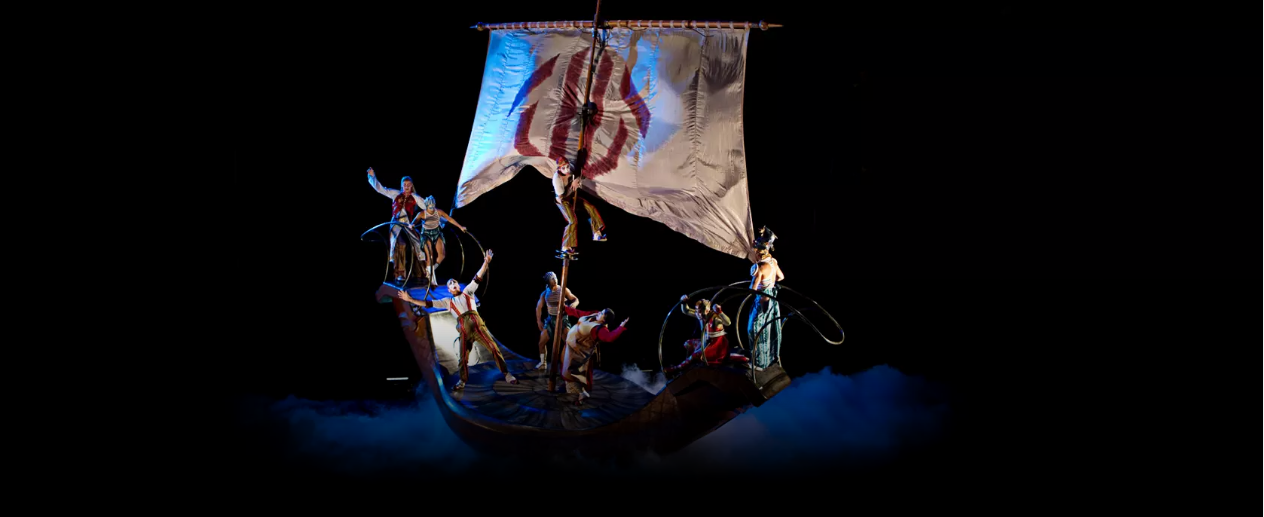
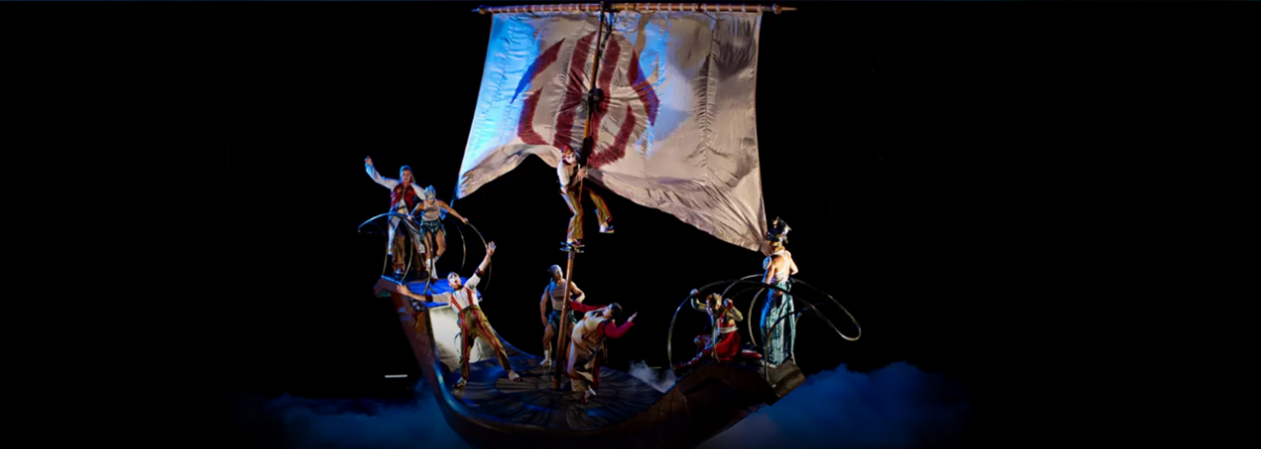
Finalizando 4.0

Changed region(s): [[0.2165, 0.0, 0.7732, 1.0]]

diff --git a/assets/css/estilos.css b/assets/css/estilos.css
@@ -1,18 +1,16 @@
 
 * {
   margin: 0;
-  padding: 0.1%;
+  padding: 0;
   box-sizing: border-box;
   font-family: sans-serif;
  }
 
-body{
-	background-color: black;
-}
+
  header {
  	 width: 100%;
  	 background: #393939;
- 	 margin-bottom: 10px;
+ 	 margin-bottom: auto;
 
  }
 
@@ -48,7 +46,7 @@ body{
  }
 
  .menu li:hover {
- 	background: rgba(255,255,255,0.1);
+ 	background: rgba(255,255,255,0.5);
 
  }
 
@@ -58,6 +56,9 @@ body{
 	padding: 13px 17px;
 	color: #fff;
 	text-decoration: none;
+}
+#row {
+	padding: 0.5%;
 }
 
 .menu a span {

diff --git a/assets/css/divs-espectaculos.css b/assets/css/divs-espectaculos.css
@@ -27,9 +27,7 @@ body {
 
  #esp-wrapper   {
     grid-auto-columns: 1fr 3fr;
-    margin-left: 20px;
  	padding: auto;
- 	margin-top: 50px;
     background-color: #fff;	
 }
 
@@ -41,7 +39,6 @@ body {
  }
   #row{
     text-align: center;
-    margin-top: 50px;
 	display: grid;
 	grid-template-columns: repeat(4, 1fr);
     grid-template-rows: 1fr;

diff --git a/assets/css/slides.css b/assets/css/slides.css
@@ -10,7 +10,7 @@ p {
 /* Slideshow container */
 .slideshow-container {
   max-width: 1600px;
-  max-height: 600px;
+  max-height: 495px;
   position: relative;
   margin: auto;
 }
@@ -19,7 +19,7 @@ p {
 .prev, .next {
   cursor: pointer;
   position: absolute;
-  top: 50%;
+  top: 30%;
   width: auto;
   padding: 16px;
   margin-top: -22px;

diff --git a/view/admin/adm/login.html b/view/admin/adm/login.html
@@ -7,6 +7,7 @@
 <body>
 	<h1 align="center">Para acceder al panel administrativo debe identificarse.</h1>
 	<form  method="POST" action ="?c=admin&a=captcha">
+		<input type="hidden" name="id">
 		Usuario:<input type="text" name="email"/>
 		<br/>
 		Contraseña:<input type="password" name="pass"/>

diff --git a/view/user/esp/esp-all.php b/view/user/esp/esp-all.php
@@ -1,19 +1,26 @@
-          <div class="mySlides fade">
-  <img  src = "../../assets/image/banner/banner.png" style="width: 100%"/>
-</div><br>
+  <div class="slideshow-container">
+  <?php foreach($this->model->listAll() as $item): ?>
+  <div class="mySlides fade">
+  <img <?php echo "src = '../../assets/image/banner/".$item['banner']."'";?> style="width: 100%"/>
+  <h1 class="text"><?php echo $item['artista']; ?>
+  </h1>
+</div>
+<?php endforeach; ?>
+<a class="prev" onclick="plusSlides(-1)">&#10094;</a>
+<a class="next" onclick="plusSlides(1)">&#10095;</a>
+</div>
 
 <input type="checkbox" id="btn-menu">
             <label for="btn-menu" class="icon-menu">
             </label>
             
                 <div  class="menu">  
-                <ul>
+                <ul style="background-color: #8E8E8E">
+                    <li ><a href="?c=esp&a=Index">En gira</a>
                     </li>
-                    <li ><a href="?c=esp&a=Index"></a>
-                    </li>
-                    <li ><a href="?c=esp&a=Index">Todos losspectaculos</a>
-                    </li>
-                    <li ><a href="?c=ciu&a=Index">Ciudades</a>
+                    <?php foreach($this->ciudad->listAll() as $ciu): ?>
+                    <li ><a href="?c=ciu&a=Index"><?php echo $ciu['nombre'] ?></a>
+                    <?php endforeach; ?>
                     </li>
                 </ul>
                 </div>
@@ -23,7 +30,7 @@
       	<?php foreach($this->model->listAll() as $item): ?>
         	<div id="esp-wrapper">
           <img class="tooltip"id="esp-img" <?php echo "src = '../../assets/image/".$item['img']."'";?>/> 
-        	<h3><?php echo $item['nombre'].":";?></h3>
+        	<h3><?php echo $item['nombre'];?></h3>
         	<p><?php echo substr($item['artista'], 0,20)."...";?></p>
           <button class="cienx"><strong><a <?php echo "href='?c=esp&a=One&id= ".$item['id']."'";?>>Ver más</a></strong>
           </button></div>

diff --git a/model/Admin.class.php b/model/Admin.class.php
@@ -35,55 +35,12 @@
        $sql = $conexion->prepare('SELECT * FROM ' . self::TABLA . ' WHERE email = :email and pass = :pass');
      $sql->bindParam(':email', $user);
      $sql->bindParam(':pass', $pass);
-       $sql->execute();
-       return $sql;
-   }
-
-   /*public function save($nombre, $id){
-   		$conexion = new Conexion();
-
-   		if($id) { //Modifica toda una linea, mediante el id.
-
-         $sql = $conexion->prepare('UPDATE ' . self::TABLA .' SET nombre = :nombre WHERE id = :id');
-         $sql->bindParam(':nombre', $nombre, PDO::PARAM_STR);
-		 $sql->bindParam(':id', $id);
-		 $sql->execute();
-		}else {  
-         $sql = $conexion->prepare('INSERT INTO ' . self::TABLA .' (nombre) VALUES (:nombre');
-		     $sql->bindParam(':nombre', $nombre, PDO::PARAM_STR);
-		     $id = $conexion->lastInsertId();
-         $sql->execute();
-      }
-      return $sql;
-   }
-
-    public static function listOne($id){//Retorna nombre, descri.. por el id.
-    
-       $conexion = new Conexion();
-       $sql = $conexion->prepare('SELECT nombre FROM ' . self::TABLA . ' WHERE id = :id');
-	   $sql->bindParam(':id', $id);
-       $sql->execute();
-       $reg = $sql->fetch(); //Devuelve una única linea (array con cada campo) de la TABLA(id seleccionado).
-       return $reg;
+     $sql->execute();
        
-    }
+       return $sql;
+       var_dump($sql);die;
+   }
 
-    public static function listAll(){
-       $conexion = new Conexion();
-       $sql = $conexion->prepare ('SELECT id, nombre FROM ' . self::TABLA . ' ORDER BY nombre');
-	   $sql->execute();
-       $reg = $sql->fetchAll();
-       return $reg;
-    }
-		public static function delete($id){
-      		$conexion = new Conexion();
-      		$sql = $conexion->prepare('DELETE FROM'. self::TABLA .' WHERE id = :id');
-      		$sql->bindValue(':id', $id);
-      		$sql->execute();
-      		return $sql;    
-}
-
-*/
    }
 
 

diff --git a/view/user/header.php b/view/user/header.php
@@ -22,13 +22,13 @@
             </label>
             
                 <nav  class="menu">  
-                <ul>
+                <ul style="background-color: black">
                     </li>
-                    <li ><a href="?c=esp&a=Index">Sistemacirco</a>
+                    <li ><a href="?c=esp&a=Index">SISTEMACIRCO</a>
                     </li>
-                    <li ><a href="?c=esp&a=Index">Espectaculos</a>
+                    <li ><a href="?c=esp&a=Index">ESPECTACULOS</a>
                     </li>
-                    <li ><a href="?c=ciu&a=Index">Ciudades</a>
+                    <li ><a href="?c=ciu&a=Index">CIUDADES</a>
                     </li>
                 </ul>
                 </nav>

diff --git a/view/user/esp/esp-perfil.php b/view/user/esp/esp-perfil.php
@@ -14,9 +14,9 @@
 <a class="next" onclick="plusSlides(1)">&#10095;</a>-->
 </div><br>
 
-           <h1 align = "center" style="color: white">Atracciones</h1>
+           <h1 style ="color: white"align = "center" >Atracciones</h1>
               <!-- Posibles cambios con JavaScript-->
-              <div style="margin-top: auto;" id='row'> 
+              <div style="background-color: white" id='row'> 
       	<?php  foreach ($this->atra->listAll() as $item) {
       		if ($id == $item['id_esp']) {
       	echo "
@@ -26,7 +26,7 @@
         	<p>".$item['descripcion']."</p>
           </div>";	
       	}}; ?>
-      	</div>
+      	</div></div>
        
 
 

diff --git a/controller/user/esp.controller.php b/controller/user/esp.controller.php
@@ -4,11 +4,13 @@ require_once '../../model/indexClass.php';
 class espController{
     private $atra;
     private $model;
+    private $ciudad;
     
     
     public function __CONSTRUCT(){
         $this->model = new Espectaculos();
         $this->atra = new Atracciones();
+        $this->ciudad = new Ciudad();
     }
     
     public function Index(){

diff --git a/controller/esp.controller.php b/controller/esp.controller.php
@@ -8,6 +8,7 @@ class espController{
     
     public function __CONSTRUCT(){
         $this->model = new Espectaculos();
+
     }
     
     public function Index(){
